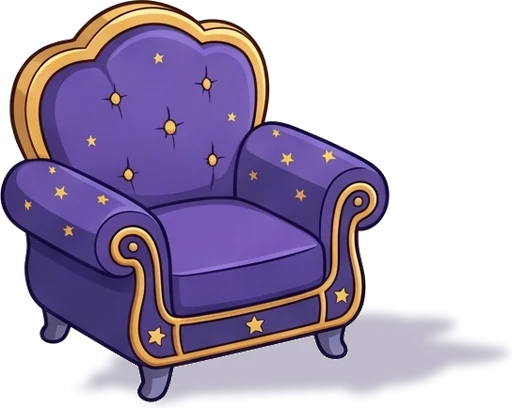
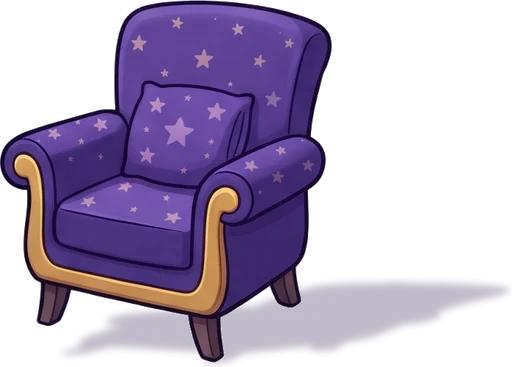
feat: Starlight sofa and armchair face the viewer; no sticker board in a drawn-in room, stickers go on the walls and shelves

diff --git a/src/data/roomPlacement.ts b/src/data/roomPlacement.ts
@@ -132,6 +132,8 @@ const DESK_CATCH_BELOW_TOP = 0.5;
 /** A drawn-in desk: let go this far (scene %) above or below its top and an item still lands on it. */
 const BAKED_DESK_CATCH_ABOVE = 4;
 const BAKED_DESK_CATCH_BELOW = 5;
+/** A sticker standing on a drawn-in shelf: its centre this far (scene % of height) above the plank. */
+const STICKER_ABOVE_SHELF = 3.5;
 export const DEFAULT_DESK_POINT: ScenePoint = LEGACY_GEOMETRY.defaults.desk;
 
 const FLOOR_SCALE_FAR = 0.85;
@@ -232,7 +234,22 @@ export function getSurfaces(kind: RoomSlotKind, layout: RoomLayoutContext = DEFA
       },
     ];
   }
+  if (kind === 'board' && layout.geometry.baked) return getBakedStickerSurfaces(layout.geometry);
   return fixedSurfacesOf(layout.geometry).filter((surface) => surface.kind === kind);
+}
+
+/** A room with its furniture drawn in has no sticker board: stickers go on the free walls and stand on the shelves (same ids, so the same Hebrew names). */
+function getBakedStickerSurfaces(geometry: RoomGeometry): RoomSurface[] {
+  const walls = fixedSurfacesOf(geometry)
+    .filter((surface) => surface.kind === 'wall')
+    .map((surface) => ({ ...surface, kind: 'board' as const }));
+  const shelves = geometry.shelves
+    .filter((shelf) => shelf.id !== 'window-sill')
+    .map((shelf) => {
+      const y = shelf.y - STICKER_ABOVE_SHELF;
+      return { id: shelf.id, kind: 'board' as const, xMin: shelf.xMin, xMax: shelf.xMax, yMin: y, yMax: y, tilt: shelf.tilt ?? 0 };
+    });
+  return [...walls, ...shelves];
 }
 
 /** Default point of each old fixed slot, so placements made before free placement keep their spot. */

diff --git a/src/data/roomArtManifest.ts b/src/data/roomArtManifest.ts
@@ -98,10 +98,10 @@ export const ROOM_ART: Record<string, Record<string, RoomArtSprite>> = {
     'furniture-shelf-low': { aspect: 1.4504, left: 0.0, right: 1.0, top: 0.0, bottom: 1.0, slope: -0.248 },
     'furniture-sill': { aspect: 1.6057, left: 0.0, right: 1.0, top: 0.0, bottom: 1.0, slope: -0.427 },
     'furniture-board': { aspect: 0.9078, left: 0.0, right: 1.0, top: 0.0, bottom: 1.0, slope: -0.485 },
-    'room-sofa': { aspect: 1.5148, left: 0.0, right: 0.745, top: 0.0, bottom: 0.9886, slope: 0.3 },
-    'room-sofa-b': { aspect: 1.4884, left: 0.0, right: 0.7583, top: 0.0, bottom: 0.9886, slope: -0.3 },
-    'room-chair': { aspect: 1.3653, left: 0.0, right: 0.6993, top: 0.0, bottom: 0.9862, slope: 0.202 },
-    'room-chair-b': { aspect: 1.2549, left: 0.0, right: 0.761, top: 0.0, bottom: 0.9862, slope: -0.202 },
+    'room-sofa': { aspect: 1.7067, left: 0.0, right: 0.7233, top: 0.0, bottom: 0.9878, slope: 0.0 },
+    'room-sofa-b': { aspect: 1.7067, left: 0.0, right: 0.7233, top: 0.0, bottom: 0.9878, slope: 0.0 },
+    'room-chair': { aspect: 1.3951, left: 0.0, right: 0.649, top: 0.0, bottom: 0.988, slope: 0.0 },
+    'room-chair-b': { aspect: 1.3951, left: 0.0, right: 0.649, top: 0.0, bottom: 0.988, slope: 0.0 },
     'object-bed': { aspect: 1.4755, left: 0.0, right: 0.7076, top: 0.0, bottom: 0.9893, slope: 0.421 },
     'object-bed-b': { aspect: 1.2768, left: 0.0, right: 0.8189, top: 0.0, bottom: 0.9893, slope: -0.425 },
     'object-wardrobe': { aspect: 1.1353, left: 0.0, right: 0.5861, top: 0.0, bottom: 0.9907, slope: 0.296 },

diff --git a/src/data/roomArt.test.ts b/src/data/roomArt.test.ts
@@ -3,9 +3,15 @@ import { join } from 'node:path';
 import { describe, expect, it } from 'vitest';
 import { LEGACY_DESK_SHAPE, getArtId, getDeskShape, getRoomSprite } from './roomArt';
 import { ROOM_ART } from './roomArtManifest';
+import { getRoomGeometry } from './roomGeometry';
+import type { ThemeId } from '../types/learner';
 
 const THEMES = Object.keys(ROOM_ART);
 const PICTURES_PER_THEME = 38;
+
+function isDrawnIn(theme: string): boolean {
+  return getRoomGeometry(theme as ThemeId).baked !== undefined;
+}
 
 describe('the themed room pictures', () => {
   it('has the same 38 pictures for each of the six themes', () => {
@@ -16,11 +22,17 @@ describe('the themed room pictures', () => {
   });
 
   it('draws every big piece the right way for each wall: its edges along the wall fall to the right against the right wall, rise against the left one', () => {
-    THEMES.forEach((theme) =>
+    THEMES.filter((theme) => !isDrawnIn(theme)).forEach((theme) =>
       ['object-bed', 'object-wardrobe', 'object-desk', 'room-sofa', 'room-chair'].forEach((id) => {
         expect(ROOM_ART[theme][id].slope, `${theme}/${id}`).toBeGreaterThan(0.1);
         expect(ROOM_ART[theme][`${id}-b`].slope, `${theme}/${id}-b`).toBeLessThan(-0.1);
       })
+    );
+  });
+
+  it('draws the sofa and armchair of a room with its furniture drawn in facing the viewer, level', () => {
+    THEMES.filter(isDrawnIn).forEach((theme) =>
+      ['room-sofa', 'room-chair'].forEach((id) => expect(ROOM_ART[theme][id].slope, `${theme}/${id}`).toBe(0))
     );
   });
 

diff --git a/src/data/roomPlacement.test.ts b/src/data/roomPlacement.test.ts
@@ -198,6 +198,16 @@ describe('a room with its furniture drawn in', () => {
   const inPicture = (point: { x: number; y: number }) => point.x >= 0 && point.x <= 100 && point.y >= 0 && point.y <= 100;
   const findEntry = (p: LearnerProfile, key: string) => getPlacedRoomEntries(p).find((e) => e.key === key);
 
+  it('has no sticker board: stickers go on the free walls and stand on the drawn shelves', () => {
+    const ids = getSurfaces('board', layout).map((surface) => surface.id).sort();
+    expect(ids).toEqual(['shelf-high', 'shelf-low', 'wall-left', 'wall-right']);
+    const shelf = geometry.shelves.find((line) => line.id === 'shelf-low')!;
+    const onShelf = snapToSurface('board', { x: shelf.xMin + 3, y: shelf.y - 1 }, { layout }).point;
+    const plankY = shelf.y + (onShelf.x - (shelf.xMin + shelf.xMax) / 2) * shelf.tilt!;
+    expect(onShelf.y).toBeLessThan(plankY);
+    expect(onShelf.y).toBeGreaterThan(plankY - 6);
+  });
+
   it('has the bed, the wardrobe and the desk in its picture, each with a tap area, a spot to stand on and a place for its name', () => {
     expect(getFixedFurniture(geometry).map((piece) => piece.id).sort()).toEqual(['bed', 'desk', 'wardrobe']);
     getFixedFurniture(geometry).forEach((piece) => {

diff --git a/src/components/room/roomLayout.ts b/src/components/room/roomLayout.ts
@@ -52,10 +52,11 @@ export const FURNITURE_PIECES: FurniturePiece[] = [
 /** The furniture a theme's room shows: its own pictures on the shelf lines, the sill and the board of its geometry. */
 export function getFurniturePieces(geometry: RoomGeometry, themeId?: ThemeId): FurniturePiece[] {
   if (geometry.isLegacy) return FURNITURE_PIECES;
+  // The room picture draws the shelves, and stickers go on its walls and shelves instead of a board
+  if (geometry.baked) return [];
   const options = { ...WALL_FURNITURE_OPTIONS, wallSlope: getWallSlope(geometry, false) };
-  // The room pictures already draw the window ledge items stand on (and drawn-in shelves), so no shelf is drawn over them
-  const drawnShelves = geometry.baked ? [] : geometry.shelves.filter((shelf) => shelf.id !== 'window-sill');
-  const shelves = drawnShelves.map((shelf) => {
+  // The room pictures already draw the window ledge items stand on, so no sill is drawn over it
+  const shelves = geometry.shelves.filter((shelf) => shelf.id !== 'window-sill').map((shelf) => {
     const art = ART_IDS[shelf.id];
     const sprite = getRoomSprite(themeId, art, options);
     const span = (shelf.xMax - shelf.xMin) * SPRITE_WIDTH_OF_SHELF;

diff --git a/scripts/art/process_room_art.py b/scripts/art/process_room_art.py
@@ -71,6 +71,10 @@ FLAT_FURNITURE_IDS = {'object-bed', 'object-wardrobe', 'object-desk', 'room-sofa
 FLAT_RIGHT_WALL_DRAWINGS = {'urban-night/room-sofa', 'urban-night/room-chair', 'travel-journal/room-chair'}
 # Wall-edge slopes (as seen against the left wall) read by eye where carved frames fool the measurement
 FLAT_SLOPE_OVERRIDES = {'starlight-rpg/room-sofa': -0.3}
+# Rooms with the furniture drawn in: the sofa and armchair face the viewer (renderRoomArt.mjs front,
+# art-src/room-art/<theme>/<id>-front-<take>.png), never turn, and are level (slope 0). The picked take
+# serves both views; it gets the same made shadow as the flat furniture.
+FRONT_PICKS = {'starlight-rpg/room-sofa': 5, 'starlight-rpg/room-chair': 2}
 SHADOW_SQUASH = 0.22  # the shadow's height as a share of the object's (light from high up on the left)
 SHADOW_LEAN = 0.55  # pixels to the right per pixel of the object's height
 SHADOW_BLUR = 5
@@ -369,7 +373,13 @@ def main() -> None:
         flat_source = SOURCE / theme / f'{item_id}-flat.png'
         is_flat_furniture = item_id in FLAT_FURNITURE_IDS and flat_source.exists()
         is_left_wall_view = picture_id.endswith('-b')
-        if is_flat_furniture:
+        front_take = FRONT_PICKS.get(f'{theme}/{item_id}')
+        if front_take:
+            flat_source = SOURCE / theme / f'{item_id}-front-{front_take}.png'
+            is_flat_furniture = True
+        if front_take:
+            source, mirror, has_shadow = flat_source, False, False
+        elif is_flat_furniture:
             # Most came back with the back to the left wall; mirror those that face the other way
             drawn_left = f'{theme}/{item_id}' not in FLAT_RIGHT_WALL_DRAWINGS
             source, mirror, has_shadow = flat_source, drawn_left != is_left_wall_view, False
@@ -381,6 +391,8 @@ def main() -> None:
         picture, (left, right, top, bottom), slope = process(source, has_shadow, mirror, is_flat_furniture, is_left_wall_view)
         if is_flat_furniture and f'{theme}/{item_id}' in FLAT_SLOPE_OVERRIDES:
             slope = FLAT_SLOPE_OVERRIDES[f'{theme}/{item_id}'] * (1 if is_left_wall_view else -1)
+        if front_take:
+            slope = 0.0
         target = OUT / theme / f'{picture_id}.webp'
         target.parent.mkdir(parents=True, exist_ok=True)
         picture.save(target, 'WEBP', quality=WEBP_QUALITY, method=6)

diff --git a/docs/architecture.md b/docs/architecture.md
@@ -195,7 +195,7 @@ Each learning mission consists of 5 pedagogical drill stages:
 
 ### 4.12. My English Room (`room.ts`, `wardrobe.ts`, `roomRewards.ts`, `roomActivities.ts`, `voiceMessages.ts`, `dreamJournal.ts`, `wordGames.ts`, `stickers.ts`, `components/room/`)
 - The "החדר שלי" home dock tile opens the room full-screen; its dot shows while an earned item waits to be placed.
-- **The room** (`RoomScene`): a drawn wall/floor scene, drawn furniture (`public/art/room/*.webp`: two shelves, the window sill, the desk and the sticker board, made with `scripts/art/renderRoomFurniture.mjs` and `scripts/art/process_room_furniture.py`; `FURNITURE_PIECES` in `roomLayout.ts`) and four mission objects: 🛏 bed, 📱 phone, 🚪 wardrobe, 📖 Games Book. **Free placement** (`data/roomPlacement.ts`): items stand on *surfaces* (`ROOM_SURFACES`: wall-left/right, board, shelf-high, shelf-low, window-sill, desk-top, floor), each for one `slotKind`. A point is the item's feet (shelf, desk, floor) or centre (wall, board), in scene %. `snapToSurface` puts any point on the nearest surface of the item's kind, `findFreePoint` moves a drop off other items, floor items scale with depth (`getDepthScale`), and a soft shadow sits under standing items. **Moving**: drag with mouse or touch (`useRoomItemDrag`, 6 px threshold so a tap still taps; the surfaces show as dashed zones while dragging), or with the keyboard: focus an item or press "הזזה", arrows move, Up/Down or PageUp/PageDown change surface, Enter drops, Esc cancels, with a Hebrew live announcement. **Everything is movable**: the mission objects (bed, wardrobe, phone, games book) and the desk are entries too (key `object:<id>`, `room.positions`; `moveRoomObject` / `moveRoomEntry`, defaults in `getPlacedRoomEntries`). Big furniture (bed, wardrobe, desk, sofa) stands on the floor surface (feet at the floor depth, width-aware edge and overlap rules, `getItemWidth` gives believable relative sizes), and the desk top is a surface that follows the desk (`getRoomLayout`, `getDeskTopPoint`): moving the desk carries the phone and the small items on it. The icons have transparent padding, so the scene anchors an item's feet and its contact shadow on the drawn object's visible bottom (`data/roomIconBounds.ts`, generated by `python scripts/art/measure_icon_bounds.py` from the icon alpha; re-run it when a room item gets a new icon): the shadow is an ellipse 70% of the footprint, centred on the feet. z-order follows the feet's y, with desk items above the desk. Tapping the stickers button with no stickers owned opens `StickersLockedSheet` (gendered Hebrew from `getHebrewCopy`, read aloud for grades 1–2, button to the shop; its two lines are in the Hebrew TTS corpus, so run `npm run tts:render:he -- submit` / `collect` to give them clips, until then the online voice reads them); an opened panel scrolls into view. A new item is chosen in the inventory, a zone is tapped, and the item is named as before. **Corner rooms** (`data/roomGeometry.ts`): each theme has a corner room picture, `public/art/<theme>/room-corner.webp` (`art.roomCorner`, 4:3, drawn by the pilot script `scripts/art/renderRoomPilot.mjs`), and a `RoomGeometry` measured on it: the corner x, the baseboard line (`floorEdge`, not level), the zones for hanging items, the shelf lines, sill and sticker board (right wall), and where the bed, wardrobe, desk and book stand until moved. `getRoomLayout(profile)` carries it (`layout.geometry`), `getSurfaces` builds the surfaces from it (floor items stay below the baseboard: `RoomSurface.minYAt`), `getDepthScale` and `getDeskTopPoint` take it, and saved positions are pulled back inside the room on read (`settle`; the original room, `LEGACY_GEOMETRY`, keeps points exactly as saved and is the fallback for an unknown theme). The first front-on pictures (`room-bg.webp`) stay in `public/art` unused. Furniture sprites (`getFurniturePieces`: the two shelves and the board, from the themed pictures in `public/art/room/<theme>/`; no sill is drawn, the room pictures have their own window ledge) and the item pictures come from `ROOM_ART` (`data/roomArt.ts`, generated by `scripts/art/process_room_art.py`; drawn with `scripts/art/renderRoomArt.mjs`). The games book may also lie on the desk top (`getObjectMoveKinds`, `OBJECT_EXTRA_KINDS`: an object with extra kinds ends up on whichever of its surfaces the drop is nearest, its kind follows where it stands, and the drag zones show both); what lies on the desk follows the desk top exactly when the desk moves. **Turning to the other wall** (`turnRoomItem`, `getOtherWallPoint`): sofa, chair, bed, wardrobe and desk (`ROTATABLE_KEYS`) stand against a wall, and their picture follows the wall (`PlacedRoomEntry.isOnLeftWall`: left of the geometry's `cornerX`): each has a right-wall picture and a second, left-wall picture (`<id>-b`, drawn the other way round with its shadow still on the right). Dragging such an item across the corner switches its picture; the icon-only 🔄 button moves it to the matching spot against the other wall (same distance along the wall and from the baseboard), so it never floats away from the wall it was against. The desk takes what lies on it along. The button sits next to move / put away (also after tapping a bed, wardrobe or desk) and has no visible Hebrew text, so nothing new is read aloud. Nothing about the turn is stored: the wall follows from the item's position. Wall pictures, board stickers and things on the sill are drawn for the right wall and mirrored on the left (`getRoomSprite`'s `canMirror`); floor and desk items with a baked shadow are never mirrored. Per-theme colours stay in `roomLayout.ts`. The equipped shop avatar walks to whatever the learner taps. **Rooms with the furniture drawn in** (Starlight so far; the other themes switch one by one, then the movable-furniture code goes): the room picture `public/art/<theme>/room-baked.webp` has the bed, wardrobe, desk and both shelves drawn in, in the same places in every theme (drawn with `scripts/art/renderBakedRoom.mjs`: a 2 × 2 sheet of takes, a pick, small fixes with the pick as reference; cut to 4:3 by `scripts/art/process_baked_room.py`). `RoomGeometry.baked` holds what was measured on it: for each piece a tap area, a spot for the avatar and a spot for its name (`getFixedFurniture`; RoomScene draws an invisible, focusable button over each piece, RoomScreen walks the avatar there and opens its activity), the line along the front of the furniture that floor items stay in front of across their whole width (`freeFloorEdge`), the drawn desk top (`deskTop`) and the shelf lines with their own tilt. In such a room the bed, wardrobe and desk are not entries (no move, no turn), no piece turns, and positions or facings saved for them stay in the profile unused.
+- **The room** (`RoomScene`): a drawn wall/floor scene, drawn furniture (`public/art/room/*.webp`: two shelves, the window sill, the desk and the sticker board, made with `scripts/art/renderRoomFurniture.mjs` and `scripts/art/process_room_furniture.py`; `FURNITURE_PIECES` in `roomLayout.ts`) and four mission objects: 🛏 bed, 📱 phone, 🚪 wardrobe, 📖 Games Book. **Free placement** (`data/roomPlacement.ts`): items stand on *surfaces* (`ROOM_SURFACES`: wall-left/right, board, shelf-high, shelf-low, window-sill, desk-top, floor), each for one `slotKind`. A point is the item's feet (shelf, desk, floor) or centre (wall, board), in scene %. `snapToSurface` puts any point on the nearest surface of the item's kind, `findFreePoint` moves a drop off other items, floor items scale with depth (`getDepthScale`), and a soft shadow sits under standing items. **Moving**: drag with mouse or touch (`useRoomItemDrag`, 6 px threshold so a tap still taps; the surfaces show as dashed zones while dragging), or with the keyboard: focus an item or press "הזזה", arrows move, Up/Down or PageUp/PageDown change surface, Enter drops, Esc cancels, with a Hebrew live announcement. **Everything is movable**: the mission objects (bed, wardrobe, phone, games book) and the desk are entries too (key `object:<id>`, `room.positions`; `moveRoomObject` / `moveRoomEntry`, defaults in `getPlacedRoomEntries`). Big furniture (bed, wardrobe, desk, sofa) stands on the floor surface (feet at the floor depth, width-aware edge and overlap rules, `getItemWidth` gives believable relative sizes), and the desk top is a surface that follows the desk (`getRoomLayout`, `getDeskTopPoint`): moving the desk carries the phone and the small items on it. The icons have transparent padding, so the scene anchors an item's feet and its contact shadow on the drawn object's visible bottom (`data/roomIconBounds.ts`, generated by `python scripts/art/measure_icon_bounds.py` from the icon alpha; re-run it when a room item gets a new icon): the shadow is an ellipse 70% of the footprint, centred on the feet. z-order follows the feet's y, with desk items above the desk. Tapping the stickers button with no stickers owned opens `StickersLockedSheet` (gendered Hebrew from `getHebrewCopy`, read aloud for grades 1–2, button to the shop; its two lines are in the Hebrew TTS corpus, so run `npm run tts:render:he -- submit` / `collect` to give them clips, until then the online voice reads them); an opened panel scrolls into view. A new item is chosen in the inventory, a zone is tapped, and the item is named as before. **Corner rooms** (`data/roomGeometry.ts`): each theme has a corner room picture, `public/art/<theme>/room-corner.webp` (`art.roomCorner`, 4:3, drawn by the pilot script `scripts/art/renderRoomPilot.mjs`), and a `RoomGeometry` measured on it: the corner x, the baseboard line (`floorEdge`, not level), the zones for hanging items, the shelf lines, sill and sticker board (right wall), and where the bed, wardrobe, desk and book stand until moved. `getRoomLayout(profile)` carries it (`layout.geometry`), `getSurfaces` builds the surfaces from it (floor items stay below the baseboard: `RoomSurface.minYAt`), `getDepthScale` and `getDeskTopPoint` take it, and saved positions are pulled back inside the room on read (`settle`; the original room, `LEGACY_GEOMETRY`, keeps points exactly as saved and is the fallback for an unknown theme). The first front-on pictures (`room-bg.webp`) stay in `public/art` unused. Furniture sprites (`getFurniturePieces`: the two shelves and the board, from the themed pictures in `public/art/room/<theme>/`; no sill is drawn, the room pictures have their own window ledge) and the item pictures come from `ROOM_ART` (`data/roomArt.ts`, generated by `scripts/art/process_room_art.py`; drawn with `scripts/art/renderRoomArt.mjs`). The games book may also lie on the desk top (`getObjectMoveKinds`, `OBJECT_EXTRA_KINDS`: an object with extra kinds ends up on whichever of its surfaces the drop is nearest, its kind follows where it stands, and the drag zones show both); what lies on the desk follows the desk top exactly when the desk moves. **Turning to the other wall** (`turnRoomItem`, `getOtherWallPoint`): sofa, chair, bed, wardrobe and desk (`ROTATABLE_KEYS`) stand against a wall, and their picture follows the wall (`PlacedRoomEntry.isOnLeftWall`: left of the geometry's `cornerX`): each has a right-wall picture and a second, left-wall picture (`<id>-b`, drawn the other way round with its shadow still on the right). Dragging such an item across the corner switches its picture; the icon-only 🔄 button moves it to the matching spot against the other wall (same distance along the wall and from the baseboard), so it never floats away from the wall it was against. The desk takes what lies on it along. The button sits next to move / put away (also after tapping a bed, wardrobe or desk) and has no visible Hebrew text, so nothing new is read aloud. Nothing about the turn is stored: the wall follows from the item's position. Wall pictures, board stickers and things on the sill are drawn for the right wall and mirrored on the left (`getRoomSprite`'s `canMirror`); floor and desk items with a baked shadow are never mirrored. Per-theme colours stay in `roomLayout.ts`. The equipped shop avatar walks to whatever the learner taps. **Rooms with the furniture drawn in** (Starlight so far; the other themes switch one by one, then the movable-furniture code goes): the room picture `public/art/<theme>/room-baked.webp` has the bed, wardrobe, desk and both shelves drawn in, in the same places in every theme (drawn with `scripts/art/renderBakedRoom.mjs`: a 2 × 2 sheet of takes, a pick, small fixes with the pick as reference; cut to 4:3 by `scripts/art/process_baked_room.py`). `RoomGeometry.baked` holds what was measured on it: for each piece a tap area, a spot for the avatar and a spot for its name (`getFixedFurniture`; RoomScene draws an invisible, focusable button over each piece, RoomScreen walks the avatar there and opens its activity), the line along the front of the furniture that floor items stay in front of across their whole width (`freeFloorEdge`), the drawn desk top (`deskTop`) and the shelf lines with their own tilt. In such a room the bed, wardrobe and desk are not entries (no move, no turn), no piece turns, and positions or facings saved for them stay in the profile unused. There is no sticker board: stickers hang on the free walls or stand on the drawn shelves (`getSurfaces('board')`). The sofa and armchair face the viewer (`renderRoomArt.mjs front`, a sheet of takes drawn with the room as reference; the picked take is named in `FRONT_PICKS` in `process_room_art.py`, level, with a made shadow) and move on the free floor.
 - **Mission objects** show a "coming soon" bubble with their activity until later phases ship.
 - **Items**: 20 room items (`ROOM_ITEMS`) plus the shop decor lamp and the 3 shop stickers (`SHOP_ROOM_ITEMS`). Every learner starts with the 🪴 plant. Ownership reuses `unlockedRewardIds`.
 - **Earning**: a mission's *first* 3-star result awards the next unowned item in `ROOM_REWARD_ORDER` (`roomRewards.ts`), which alternates room decor and wardrobe items. The victory screen previews it and the dashboard shows a toast.
